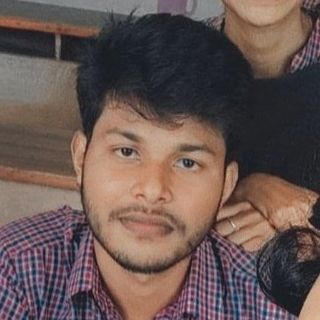
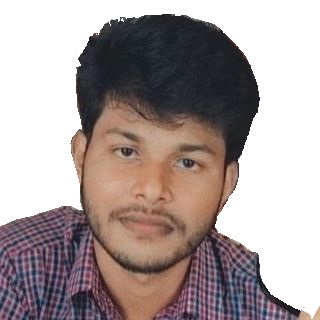
done for today

diff --git a/index.html b/index.html
@@ -21,8 +21,10 @@
     <!-- Fonts -->
     <link href="https://fonts.googleapis.com/css?family=Open+Sans:300,400,600,700|Varela" rel="stylesheet">
 
-    <!-- Favicon
-    ================================================== -->
+    <link rel="preconnect" href="https://fonts.googleapis.com">
+    <link rel="preconnect" href="https://fonts.gstatic.com" crossorigin>
+    <link href="https://fonts.googleapis.com/css2?family=Inconsolata&display=swap" rel="stylesheet">    
+    <!-- ================================================== -->
     <link rel="apple-touch-icon" sizes="144x144" href="assets/img/apple-touch-icon.png" >
     <link rel="icon" type="image/png" sizes="32x32" href="assets/img/alfa.png" >
     <link rel="icon" type="image/png" sizes="16x16" href="assets/img/favicon-16x16.png" >
@@ -60,7 +62,7 @@
         <div class="hero-content"  >
             <div class="contHead">
                 <div class="mainImage">
-                    <img src="./assets/img/pro.jpg" height="150px" alt="">
+                    <img src="./assets/img/alfa-profile.png" height="250px"  alt="">
                 </div>
                 <h1 id="black">Hey Folks, I am </h1>
                 <br>
@@ -493,7 +495,7 @@
                             <div class="row">
                                 <div class="col-md-5">
                                     <div class="service-info">
-                                        <h3 class="service-title">3. DevOps on AWS:Code build and test</h3>
+                                        <h3 class="service-title">3. DevOps on AWS:Code Build and Test</h3>
                                         <p> In this DevOps role, we specialize in leveraging AWS services to streamline the code build and testing process.
                                              By utilizing tools like AWS CodeBuild and AWS CodePipeline, 
                                              ensuring the efficiency and automate workflows, allowing for continuous integration and delivery of high-quality code.</p>
@@ -526,7 +528,7 @@
                             <div class="row">
                                 <div class="col-md-5">
                                     <div class="service-info">
-                                        <h3 class="service-title">5. DevOps on AWS:Release and deploy</h3>
+                                        <h3 class="service-title">5. DevOps on AWS:Release and Deploy</h3>
                                         <p>
                                             By employing AWS CodeDeploy and other deployment automation tools, one streamline's the deployment pipeline, reduce downtime, 
                                             and enhance the overall reliability and scalability of applications.

diff --git a/assets/css/style.css b/assets/css/style.css
@@ -65,8 +65,10 @@ body {
   flex-direction: row;
   width: 100%;
   justify-content: center;
-  margin-top: 15px;
   overflow-x: hidden;
+}
+.card{
+  margin: 10px 5px 10px 5px  ;
 }
 .card > img {
   height: 240px;
@@ -464,7 +466,7 @@ body {
 
 .background-overlay:before {
   content: "";
-  background-color: rgba(65, 65, 65, 0.5);
+  /* background-color: rgba(65, 65, 65, 0.5); */
   height: 100%;
   width: 100%;
   position: absolute;
@@ -2396,14 +2398,18 @@ textarea.form-control {
 .mainImage {
   margin-left: auto;
   margin-right: auto;
-
-  width: fit-content;
+  background-color: white;
+  border-radius: 50%;
+  padding: 3px;
+  width: max-content;
+  
 }
 .mainImage > img {
   border-radius: 50%;
+  
 }
 #black {
-  background-color: rgba(226, 226, 226, 0.281);
+  background-color: rgba(0, 0, 0, 0.804);
   font-family: Raleway;
   width: fit-content;
   border-radius: 5px;
@@ -2413,11 +2419,11 @@ textarea.form-control {
   margin-right: auto;
 }
 #typing-text {
-  background-color: rgba(226, 226, 226, 0.281);
-  font-family:Consolas;
+  background-color: rgba(0, 0, 0, 0.804);
+  font-family: 'Inconsolata', monospace;
   width: fit-content;
   border-radius: 5px;
-  font-size: 25px;
+  font-size: 30px;
   padding: 5px;
   font-weight:200 ;
   margin-left: auto;
